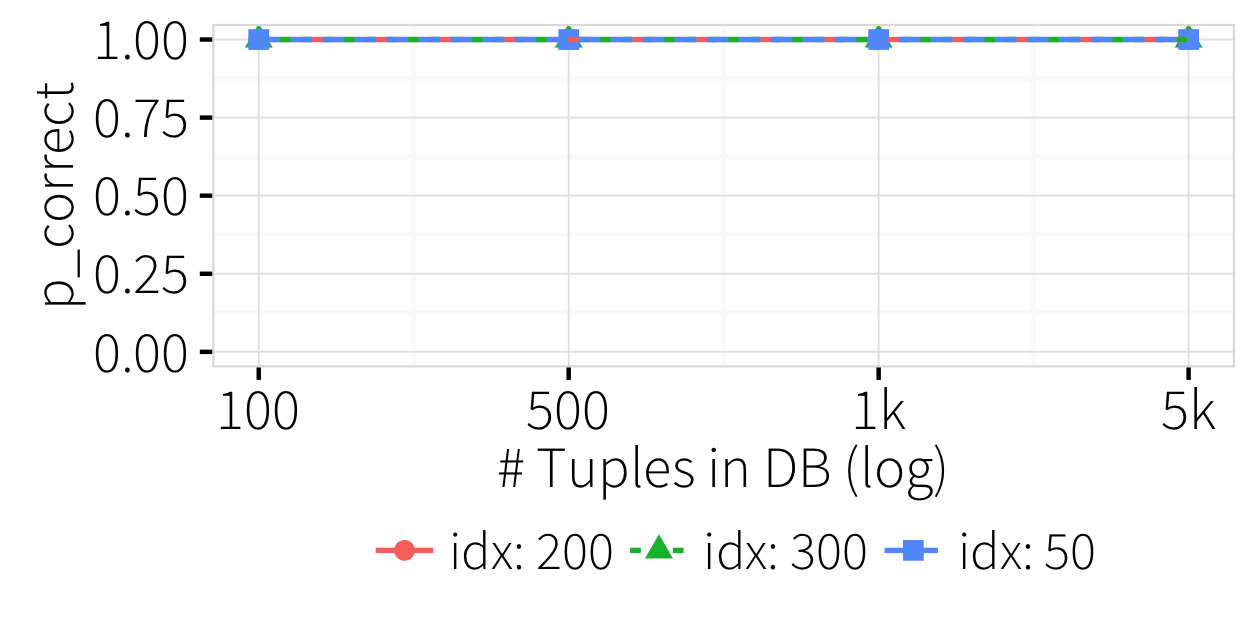
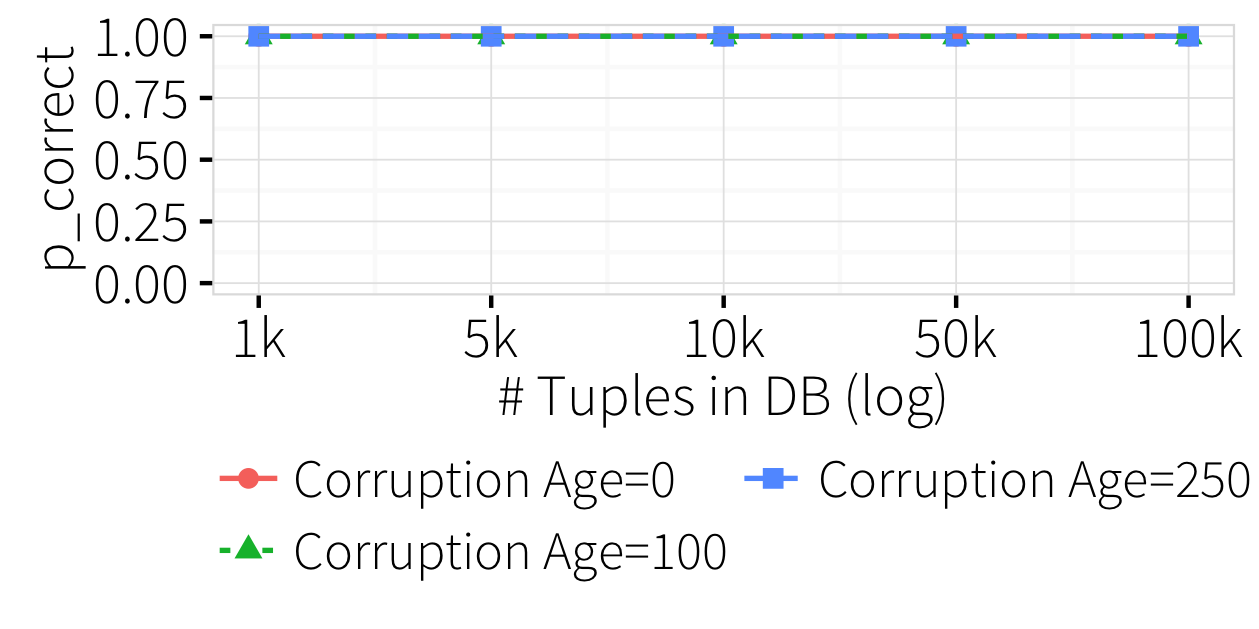
pass on previous edits & add true query fix ratio into appendix

diff --git a/docs/sigmod17revision/content/appendix.tex b/docs/sigmod17revision/content/appendix.tex
@@ -96,23 +96,15 @@ In this case, we execute a second repair step.
     \vspace*{-.25in}
     \caption{Correct repair ratio vs. database sizes}
     \label{f:dbsizeratio} 
-    \end{subfigure}\\
+    \end{subfigure}
     \begin{subfigure} [t]{.3\textwidth}
-    \includegraphics[width = .99\columnwidth]{figures/indelup_fixcount}
+    \includegraphics[width = .99\columnwidth]{figures/noise_fn_acc_idx}
     \vspace*{-.25in}
     \caption{Top-k vs. query types. }
     \vspace*{-.1in}
-    \label{f:querytypefixcount} 
+    \label{f:noiseratio} 
     \end{subfigure}
-    \begin{subfigure} [t]{.3\textwidth}
-    \includegraphics[width = .99\columnwidth]{figures/dbsize_fixcount}
-    \vspace*{-.25in}
-    \caption{Top-k vs. database sizes. }
-    \vspace*{-.1in}
-    \label{f:dbsizecount} 
-    \end{subfigure}
-   \caption{Correct repair ratio and number of candidate fixes of \sys varies on different types of workloads and false negative rate but remain 
-   stable for with increasing number of tuples on \texttt{UPDATE} workload.}
+   \caption{ \sys maintains 1.0 correct repair ratio with complete complaint set. }
    \vspace*{-.1in}
    \label{fig:truerate}
   \end{figure*}
@@ -151,6 +143,76 @@ that applies \dt over more queries is expected to have little hope of succeeding
 There are three important reasons why \dt, and any approach that focuses on a single query at a 
 time\footnote{Although our incremental approach tries to generate a repair for a single
 query at a time, it encodes all subsequent queries in the log.}, will not perform well.
+
+\begin{itemize}[itemsep=1pt, leftmargin=5mm]
+\item \textbf{Single Query Limitation: }
+In principle, one could attempt to apply this technique to the
+entire log one query at a time, starting from the most recent query.
+Even ignoring the low repair accuracy shown in Figure~\ref{f:heuristic_acc},
+this approach is infeasible.
+Consider that we generate a labeled training dataset to repair $q_i$ 
+using the query's input and output database states $D_{i-1}$ and $D_i^*$.
+Note that $D_i^*$ is the theoretically \emph{correct} database state assuming no errors in the query log.
+We would need to derive $D_i^*$ by applying the complaint set to $D_n$ to create $D_n^*$, and roll back the database state.
+Unfortunately, \texttt{UPDATE} queries are commonly surjective such
+that their inverses are ambiguous, which means that it is often
+impossible to derive $D_i^*$. In contrast, the incremental version of
+\sys can bypass this problem by encoding subsequent queries in the log
+in a MILP representation.
+
+
+\item \textbf{Structurally Different \texttt{WHERE} Clause Results: } 
+The basic classifier approach simply learns a set of rules to minimize
+classification error, and can derive a clause whose struture is arbitrarily 
+different from the original query's \texttt{WHERE} clause.
+Although it may be possible to incorporate a distance measure as part of the decision tree
+splitting criteria, it is likely to be a heuristic with no guarantees.
+
+
+\item \textbf{High Selectivity, Low Precision: }
+Classifiers try to avoid overfitting by balancing the complexity of the rules with classification accuracy.
+This is problematic for highly selective queries (e.g., primary key updates), because the classifier
+may simply ignore the single incorrect record and generate a rule such as \texttt{FALSE}.
+In fact, this form of severely imbalanced data continues to be a challenge for most major classification algorithms~\cite{he2009learning, galar2012review}. 
+Thus, we believe that alternative classification algorithms would not improve on these results. 
+Compound with the fact that many workloads are primarily composed of
+key update queries~\cite{oltpbench} this issue severely limits the
+applicability of learning-based approaches.
+
+\end{itemize}
+
+% \input{content/example3.tex}
+\xlw{
+\section{Repairing the Correct Query}
+\label{app:index}
+
+The experimental section (Section~\ref{sec:experiments}) primarily focused on performance and accuracy measures of the repairs, and for space constraints, ignored 
+whether the proposed repair fixes the true query (it is possible we fix an incorrect query in a way that resolves the complaint set).
+Although we found in most circumstances we identify the correct query to fix, we now turn our attention to better understand 
+the conditions when we may fix the incorrect query. 
+
+
+\subsection{Experimental Results}
+To evaluate \sys's ability in identifying the correct query to fix, we summarize our results using \textit{Correct repair ratio}, $p_{correct}$, which is the number fixes on the true query divided by total number of runs.
+
+\textbf{Complete Complaint Set: } We first evaluate three types of workloads with increasing corruption age. The database is set to the default setting and conclude the average $p_{correct}$ across 20 random runs. In Figure~\ref{f:querytyperatio}, we first evaluate $p_{correct}$ rate on three types of workloads: \sys identifies the correct query to fix ($p_{correct} = 1.0$) for all three types of workloads, \texttt{UPDATE},  \texttt{INSERT}, and \texttt{DELETE} workloads. We next narrow down to \texttt{UPDATE} workload and evaluate \sys's behavior with increasing amount of tuples in the database. We observe $p_{correct} = 1$ on different corrupt indexes in all database sizes (Figure~\ref{f:dbsizeratio}). 
+
+\textbf{Incomplete Complaint Set: } In Figure~\ref{f:noiseratio}, we study the performance of \sys with increasing false negative rate in the incomplete complaint set. Similar to the precision and recall performance in Figure~\ref{f:falsenegative_acc}, $p_{correct}$ also drops for problems with old corrupted query and high false negative rate. This is expected since with insufficient information, \sys tends to fix the wrong query with better objective function value as long as all the reported errors are all resolved. 
+}
+
+%%%%%%%%%%%% %%%%%%%%%%%%%%
+%%%%%%%%%% the end %%%%%%%%%%%%
+%%%%%%%%%%%% %%%%%%%%%%%%%%
+
+\iffalse
+
+
+\section{MILP Solver Performance}
+\label{app:solvtime}
+
+Some background about why we are runnig these experiments.  What is known about MILP solvers already.
+
+\subsection{Factors Relevant to Solver Performance}
 
 \iffalse
   \begin{figure*}[t]
@@ -197,56 +259,6 @@ query at a time, it encodes all subsequent queries in the log.}, will not perfor
    \label{f:soltime}
   \end{figure*}
 \fi
-\begin{itemize}[itemsep=1pt, leftmargin=5mm]
-\item \textbf{Single Query Limitation: }
-In principle, one could attempt to apply this technique to the
-entire log one query at a time, starting from the most recent query.
-Even ignoring the low repair accuracy shown in Figure~\ref{f:heuristic_acc},
-this approach is infeasible.
-Consider that we generate a labeled training dataset to repair $q_i$ 
-using the query's input and output database states $D_{i-1}$ and $D_i^*$.
-Note that $D_i^*$ is the theoretically \emph{correct} database state assuming no errors in the query log.
-We would need to derive $D_i^*$ by applying the complaint set to $D_n$ to create $D_n^*$, and roll back the database state.
-Unfortunately, \texttt{UPDATE} queries are commonly surjective such
-that their inverses are ambiguous, which means that it is often
-impossible to derive $D_i^*$. In contrast, the incremental version of
-\sys can bypass this problem by encoding subsequent queries in the log
-in a MILP representation.
-
-
-\item \textbf{Structurally Different \texttt{WHERE} Clause Results: } 
-The basic classifier approach simply learns a set of rules to minimize
-classification error, and can derive a clause whose struture is arbitrarily 
-different from the original query's \texttt{WHERE} clause.
-Although it may be possible to incorporate a distance measure as part of the decision tree
-splitting criteria, it is likely to be a heuristic with no guarantees.
-
-
-\item \textbf{High Selectivity, Low Precision: }
-Classifiers try to avoid overfitting by balancing the complexity of the rules with classification accuracy.
-This is problematic for highly selective queries (e.g., primary key updates), because the classifier
-may simply ignore the single incorrect record and generate a rule such as \texttt{FALSE}.
-In fact, this form of severely imbalanced data continues to be a challenge for most major classification algorithms~\cite{he2009learning, galar2012review}. 
-Thus, we believe that alternative classification algorithms would not improve on these results. 
-Compound with the fact that many workloads are primarily composed of
-key update queries~\cite{oltpbench} this issue severely limits the
-applicability of learning-based approaches.
-
-\end{itemize}
-
-
-
-
-\iffalse
-
-
-\section{MILP Solver Performance}
-\label{app:solvtime}
-
-Some background about why we are runnig these experiments.  What is known about MILP solvers already.
-
-\subsection{Factors Relevant to Solver Performance}
-
 \ewu{reference other constraint performance papers}
 In this section, we study factors that influence the MILP solver solving time. In this paper, we
 use IBM CPLEX~\cite{cplex2014v12} as a black box to solve the constructed MILP problems.  \ewu{describe MILP problems to justify why we focus on num constraints and num variables.} Similar to many solver performance studies~\cite{atamturk2005integer, meindl2012analysis, gearhart2013comparison}, 
@@ -331,29 +343,3 @@ then increases the number of other tuples affected.
 
 \fi
 
-% \input{content/example3.tex}
-\section{Repairing the Correct Query}
-\label{app:index}
-
-The experimental section (Section~\ref{sec:experiments}) primarily focused on performance and accuracy measures of the repairs, and for space constraints, ignored 
-whether the proposed repair was actually the correct query (it is possible we fix an incorrect query in a way that resolves the complaint set).
-Although we found in most circumstances we identify the correct query to fix, we now turn our attention to better understand 
-the conditions when we may fix the incorrect query. 
-
-
-\subsection{Experimental Results}
-To evaluate \sys's ability in identifying the correct query to fix, we execute QFix over 20 random runs and summarize our results using two evaluation metrics:
-The first $p_{correct}$ computes the ratio between the number of runs where \sys correctly repairs the corrupt query and where \sys
-repairs the wrong query; The second metric $topk$ measures the number of repairs that \sys proposes before repairing the true corrupt query.
-The second metric is useful to quantify the extent that \sys's repairs are false positives (though they may correctly resolve the complaint set).
-A small $topk$ value suggests that \sys is still effective at providing repair \emph{recommendations} as part of a diagnostic interface.
-
-\textbf{Correct repair ratio vs. query types: } In Figure~\ref{f:querytyperatio}, we first evaluate $p_{correct}$ rate on three types of workloads: \sys identifies the correct query to fix ($p_{correct} = 1.0$ and $topk = 1$) for \texttt{UPDATE} and \texttt{INSERT} workloads but unstable and much lower rate for \texttt{DELETE} workload. This is expected since more information of the actual incorrectness get maintained through \texttt{UPDATE} queries by the updated tuple values. \ewu{Is this because the problem is fundamentally underconstrained?  if so, explain in those terms and describe why.} However, such information get lost and obscured for \texttt{DELETE} queries as those deleted tuples no longer exist in the database. As a result, actual incorrect queries in \texttt{UPDATE} workloads are much easier to identify than those in \texttt{DELETE} workloads. \texttt{INSERT} workloads are easy to fix by natural since each \texttt{INSERT} query only touches one tuple. 
-
-To further illustrate this, we present the following toy example (Figure~\ref{fig:example2}) of two simple query logs, one for \texttt{DELETE} workload and one for \texttt{UPDATE} workload, that operate on the same initial database state and with the exact same \texttt{WHERE} clauses. 
-
-In the above example, we find that there exist two candidate fixes for the \texttt{DELETE} workload $\mathcal{Q}_{del}$: one can either modify the \texttt{WHERE} clause of $Q2$ to $[12, 12]$ or the \texttt{WHERE} clause of $Q1$ to $[4, 4]$. In addition, the two candidate fixes achieve the exact same final database state. However, there only exists one candidate fix for the \texttt{UPDATE} workload $\mathcal{Q}_{up}$ since values in every attribute must satisfy with the desired database state. According to the converted constraints, modifying $Q2$ cannot solve the problem since it would not fix the value in the incorrect attribute $a_1$.  
-
-\textbf{Top-k vs. query types: } In Figure~\ref{f:querytypefixcount}, we observe the same trend: the $topk$ count for \texttt{UPDATE} and \texttt{INSERT} workloads remain $1$ across all query indexes while the $topk$ count shows unstable and much higher value for \texttt{DELETE} workloads. Overall, we find \sys above is able to find the true repair within 3 diagnosis over more than 85\% of all random runs. 
-
-\textbf{Correct repair ratio \& top-k vs. database sizes: } We next narrow down to \texttt{UPDATE} workload and evaluate \sys's behavior with increasing amount of tuples in the database. We observe $p_{correct} = 1$ and $topk = 1$ on different corrupt indexes in all database sizes (Figure~\ref{f:dbsizeratio}~\ref{f:dbsizecount}). 

diff --git a/docs/sigmod17revision/content/xx-solutions.tex b/docs/sigmod17revision/content/xx-solutions.tex
@@ -178,7 +178,7 @@ A delete query removes a set of tuples from the database.
 Since the MILP problem doesn't have a way to express a non-existent value, 
 we encode a deleted tuple by setting its attributes to a large value $M^-$ 
 outside of the attribute domain. In this way, subsequent conditional functions on the attribute will return false. 
-\xlw{There are nuances to how $M^-$ is set.  In particular, it cannot be set to $M$ because it biases the solver towards repairing \texttt{UPDATE} queries in lieu of \texttt{DELETE} queries (e.g., the solver repair an \texttt{UPDATE} query to set the tuple's values to $M$ rather than repair the \texttt{DELETE} query to delet the tuple).  If set to $>M$, the constraint expressions will become infeasible and the solver will fail to find a solution. Setting $M^- < M$ ensures that the generated constraint problem will be feasible and unbiased towards \texttt{UPDATE} queries. }
+\xlw{There are nuances to how $M^-$ is set.  In particular, it should be set into a large enough value such that it would not biases the solver towards repairing consecutive \texttt{UPDATE} queries in lieu of \texttt{DELETE} queries (e.g., the solver repair an \texttt{UPDATE} query to set the tuple's values to $M^-$ rather than repair the \texttt{DELETE} query to delete the tuple).  If set to $>M$, the constraint expressions will become infeasible and the solver will fail to find a solution. Setting $M^- <\leq M$ ensures that the generated constraint problem will be feasible and unbiased towards \texttt{UPDATE} queries. }
 So the $M^-$ assignment will not have an effect on subsequent queries encoded in the MILP problem:
 
 % \xlw{Note that although the subsequent condition functions may be true initially, but any solutions having such positive conditions will have an associated objective-function value that is exceedingly large. Thus the MILP solver will always assign false to the subsequent condition functions.} 

diff --git a/docs/sigmod17revision/content/xx-problem.tex b/docs/sigmod17revision/content/xx-problem.tex
@@ -217,7 +217,7 @@ complaint set is complete.
 In this work, we focus on handling data manipulation queries with simple, basic query structures without subqueries, aggregations, nor joins. \xlw{Starting with an empty or clean database, \sys supports queries with WHERE clauses containing conjunctions and disjunctions of predicates.}
 Expressions (in predicates and SET clauses) may be over linear combinations of constants and a single attribute, and we do not support arbitrary user defined functions.
 We find that the queries that we focus on are applicable to a broad range of user-facing web applications (e.g., conference attendee scheduling, voting,  data entry) and OLTP benchmarks, and that complex query structures and operations are less common than in read-oriented analytical workloads. 
-\xlw{In addition, we target a setting where that the complaint set contains complete value corrections, and are derived from a single query corruption.  
+\xlw{In addition, we target a setting where that the complaint set contains complete value corrections and are mostly derived from a single query corruption.  
 Future work will study efficient techniques for multiple corrupt queries and incomplete value corrections.}
 
 % \xlw{In this paper, we rely on complaint set with valid information and mainly target at solving workloads with a single error. At this point, we plan to focus our future work on solving more complex workloads with multiple errors and inconsistent complaints efficiently and effectively.} 

diff --git a/docs/sigmod17revision/content/xx-experiments.tex b/docs/sigmod17revision/content/xx-experiments.tex
@@ -102,7 +102,8 @@ Accuracy is reported as the repair's precision (percentage of repaired tuples th
 recall (the percentage of the full complaint set that was repaired), 
 and F1 measure (the harmonic mean of precision and recall). 
 Note that the reported accuracy measures whether or not the complaint tuples are correctly repaired, thus the repaired query is allowed to differ from the true query. 
-However, we study the latter issue in our technical report and find that \xlw{WHAT DID WE FIND.}
+However, we study the latter issue in Appendix~\ref{app:index} and find that \xlw{\sys always fixes the true query with complete complaint set, and \sys tends to 
+fix wrong queries with incomplete complaints in problems with old corruption(s).}
 We report the average across 20 runs.
 We describe the experimental parameters in the context of the datasets and workloads below. 
 
